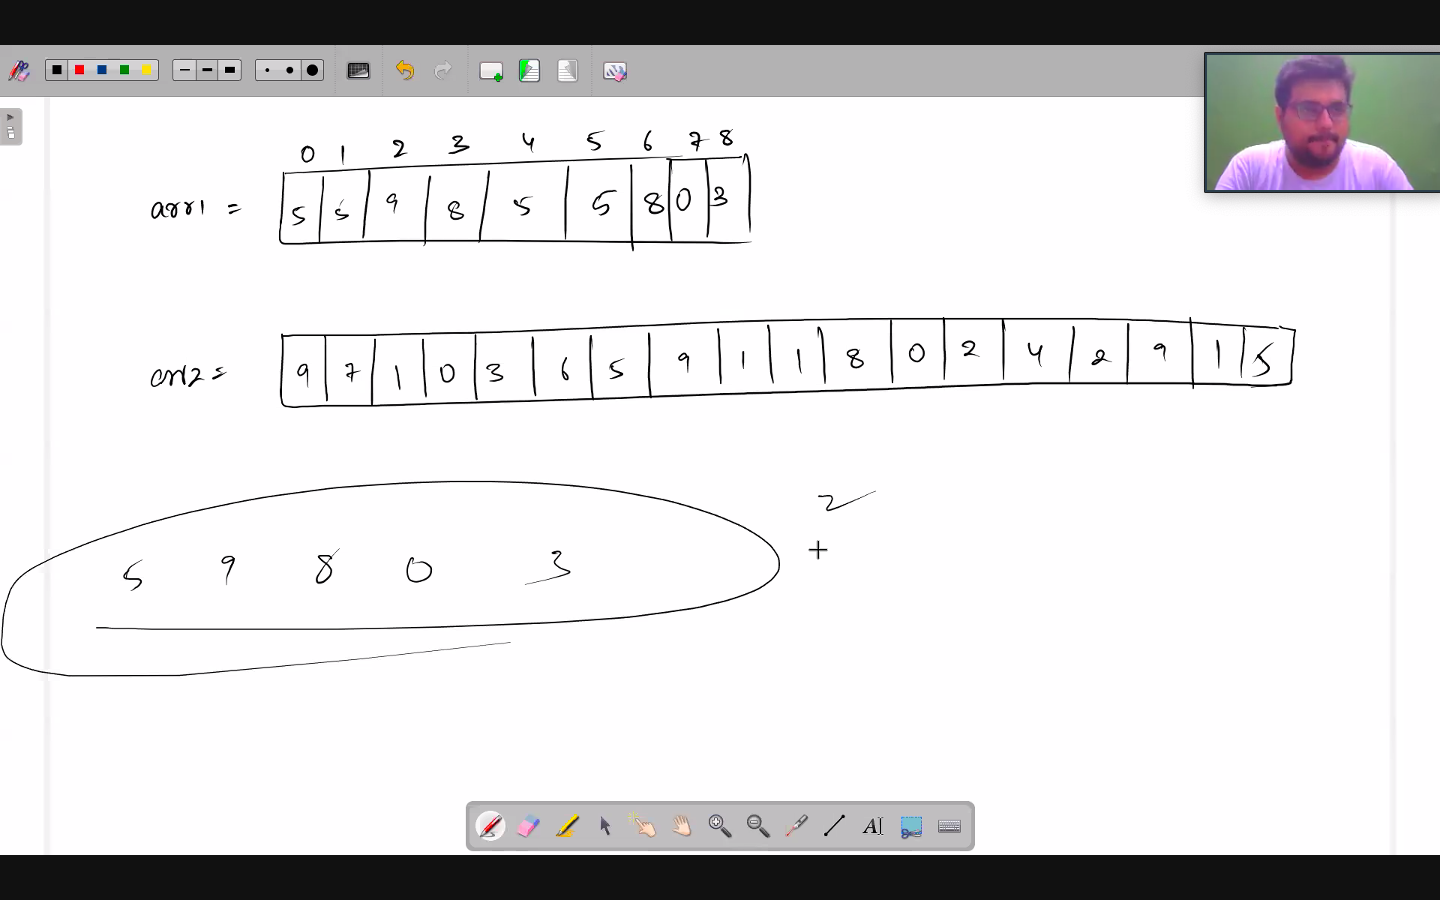
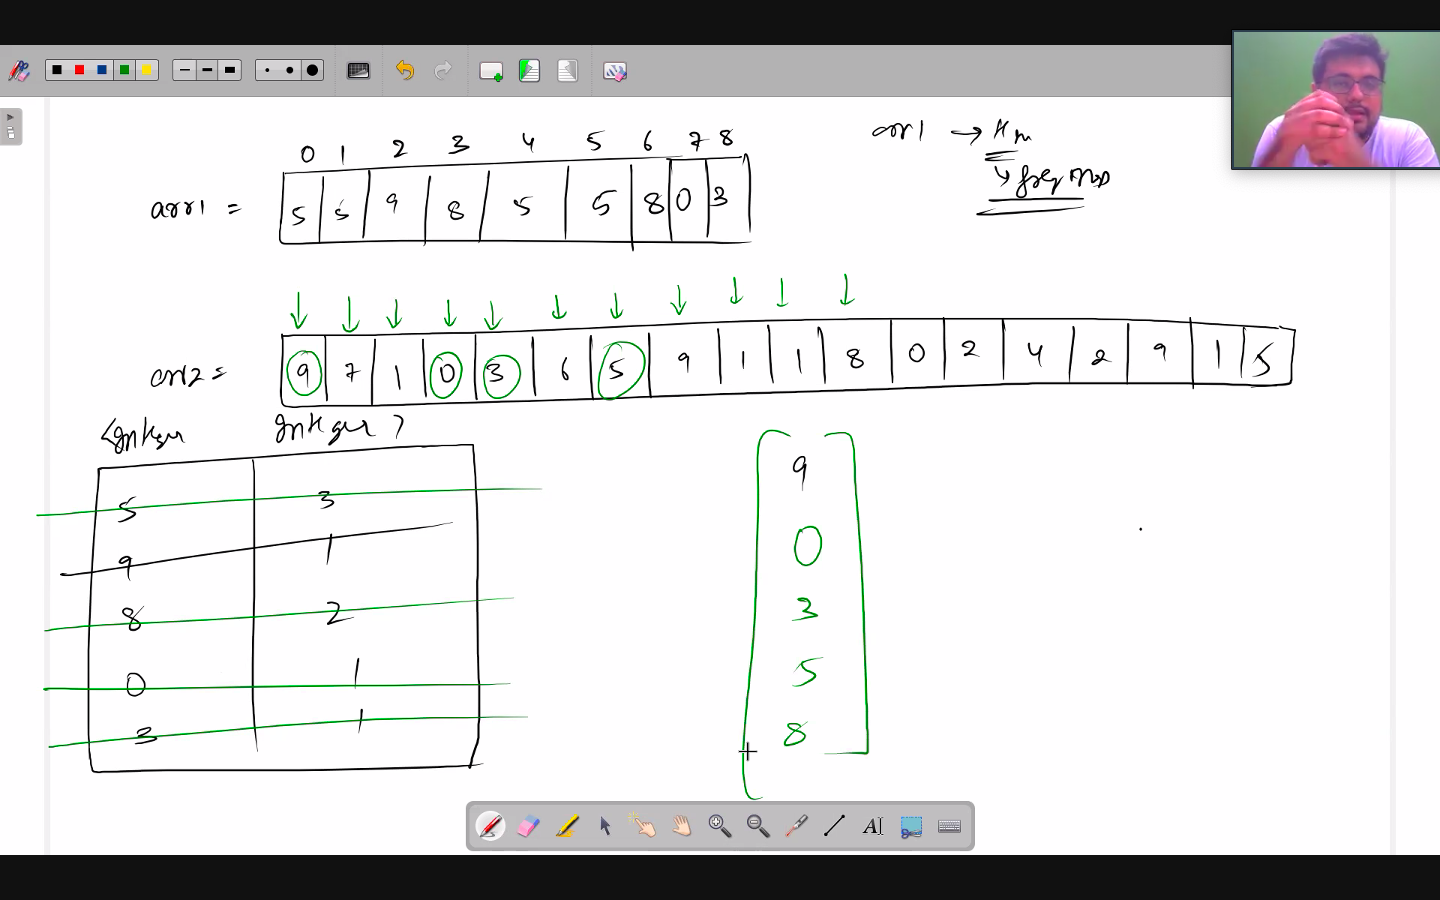
HashMap

diff --git a/20. HashMap and Heap/3. Get Common Elements - 2/Main.java b/20. HashMap and Heap/3. Get Common Elements - 2/Main.java
@@ -1,0 +1,42 @@
+import java.io.*;
+import java.util.*;
+
+public class Main{
+
+public static void main(String[] args) throws Exception {
+    // write your code here
+    Scanner scn = new Scanner(System.in);
+    int n1 = scn.nextInt();
+    int[] a1 = new int[n1];
+    for(int i = 0 ; i < n1 ; i++){
+        a1[i] = scn.nextInt();
+    }
+    
+    int n2 = scn.nextInt();
+    int[] a2 = new int[n2];
+    for(int i = 0 ; i < n2 ; i++){
+        a2[i] = scn.nextInt();
+    }
+    
+    HashMap<Integer , Integer> hm = new HashMap<>();
+    for(int val : a1){
+        if(hm.containsKey(val) == true){
+            hm.put(val , hm.get(val)+1);
+        }
+        else{
+            hm.put(val , 1);
+        }
+    }
+    for(int val : a2){
+        if(hm.containsKey(val) && hm.get(val) > 0){
+            System.out.println(val);
+            hm.put(val , hm.get(val) - 1);
+        }
+        //optional(we can write or not write)
+        if(hm.size() == 0){
+            break;
+        }
+    }
+ }
+
+}
